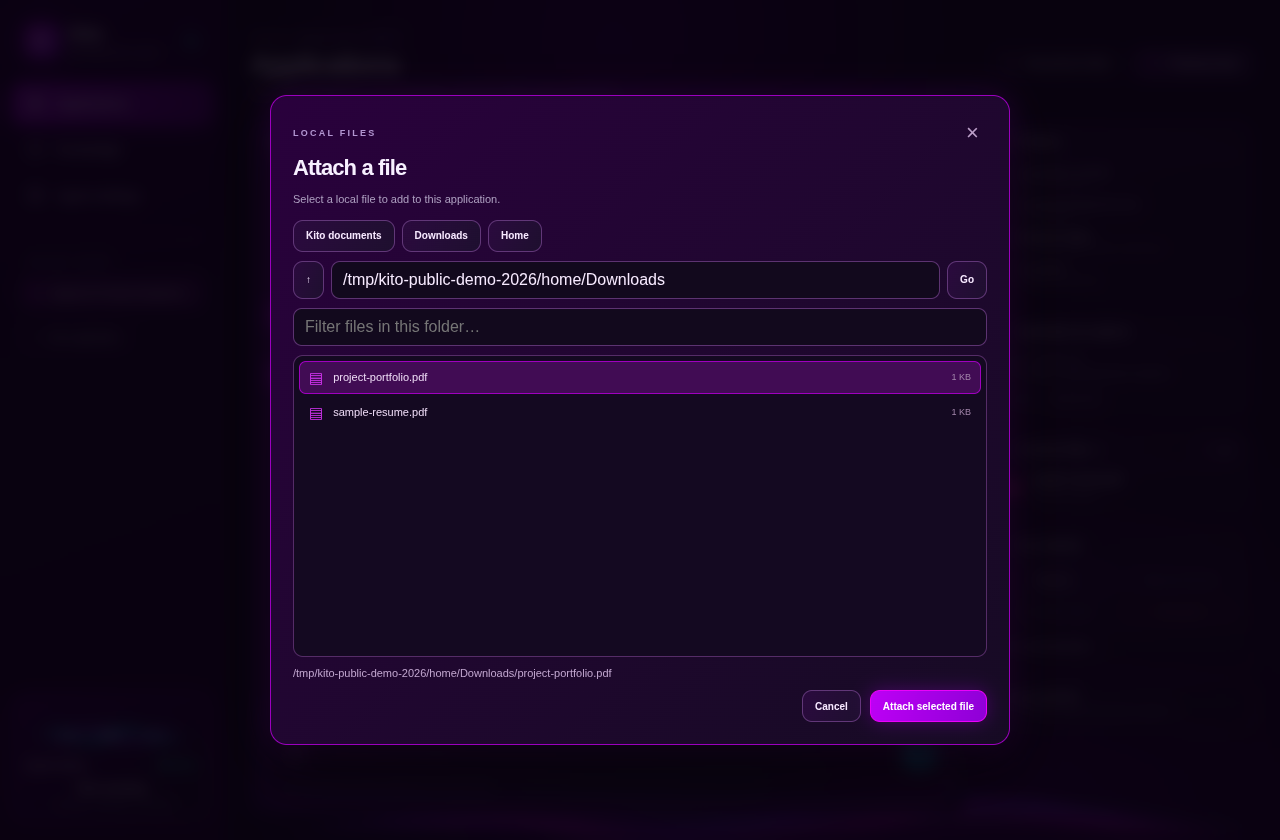
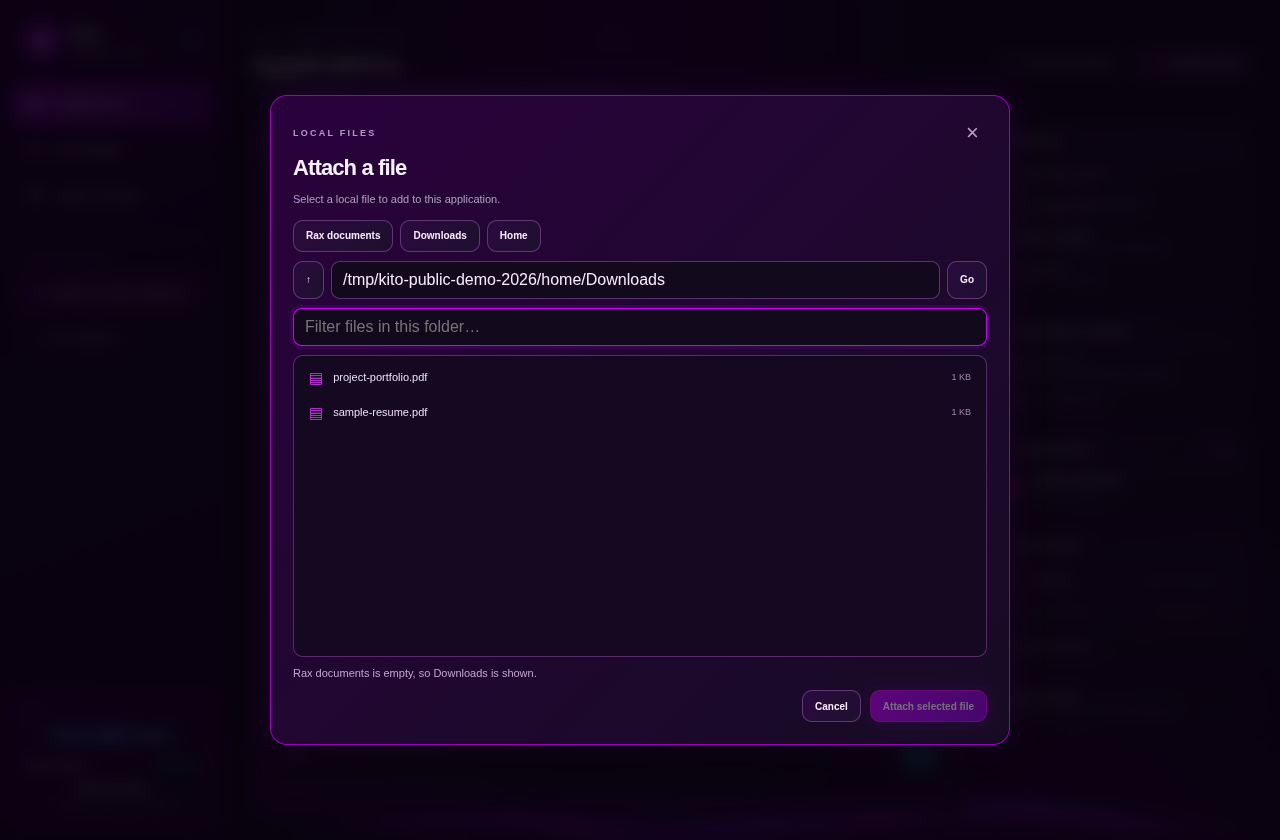
docs: publish Rax identity and refreshed desktop screenshots

diff --git a/README.md b/README.md
@@ -1,8 +1,8 @@
-# Kito
+# Rax
 
-**A local desktop agent for applying to opportunities.** Kito works through job, fellowship, scholarship, grant, accelerator, hackathon, and other application forms in a visible Chrome window. You talk to it in the Electron desktop app; it finds forms, uses verified context and local documents, drafts answers, uploads files, and tracks what actually happened.
+**A local desktop agent for applying to opportunities.** Rax works through job, fellowship, scholarship, grant, accelerator, hackathon, and other application forms in a visible Chrome window. You talk to it in the Electron desktop app; it finds forms, uses verified context and local documents, drafts answers, uploads files, and tracks what actually happened.
 
-Kito is an early Linux project. Websites vary, and an attempted submission is not proof of receipt. Kito records success only when it can observe convincing confirmation.
+Rax is an early Linux project. Websites vary, and an attempted submission is not proof of receipt. Rax records success only when it can observe convincing confirmation.
 
 ## See it
 
@@ -10,23 +10,23 @@ These are screenshots of the running Electron app with **synthetic demo data**. 
 
 | Desktop chat | Application workspace |
 | --- | --- |
-| ![Kito desktop chat](docs/screenshots/home.png) | ![Kito application workspace](docs/screenshots/workspace.png) |
+| ![Rax desktop chat](docs/screenshots/home.png) | ![Rax application workspace](docs/screenshots/workspace.png) |
 
-![Kito local file browser](docs/screenshots/file-browser.png)
+![Rax local file browser](docs/screenshots/file-browser.png)
 
 ## What it does
 
-- **Works from a plain-language request.** Give Kito a direct link or name an opportunity. It can search for a form when needed.
-- **Uses visible Chrome.** Watch it browse, scroll, inspect fields, fill answers, upload documents, and submit. Chrome stays open when a run stops or Kito exits.
+- **Works from a plain-language request.** Give Rax a direct link or name an opportunity. It can search for a form when needed.
+- **Uses visible Chrome.** Watch it browse, scroll, inspect fields, fill answers, upload documents, and submit. Chrome stays open when a run stops or Rax exits.
 - **Keeps context per application.** Chats, source files, notes, actions, form snapshots, screenshots, and outcome evidence are stored locally so a run can resume.
-- **Finds and attaches local files.** Kito can locate a known resume or supporting document itself. The desktop file browser handles ambiguous choices.
+- **Finds and attaches local files.** Rax can locate a known resume or supporting document itself. The desktop file browser handles ambiguous choices.
 - **Checks substantial answers.** A separate Muse curator reviews longer drafts against the question, saved knowledge, documents, and recent actions. Unsupported claims trigger a request for facts.
-- **Keeps manual work rare.** Kito checks documents, saved knowledge, prior answers, and recurring patterns before asking. It writes around unknown optional details and asks only for unresolved required facts or user-only steps such as sign-in, CAPTCHA, passkeys, and identity checks. Routine work, including submission, proceeds without approval popups.
+- **Keeps manual work rare.** Rax checks documents, saved knowledge, prior answers, and recurring patterns before asking. It writes around unknown optional details and asks only for unresolved required facts or user-only steps such as sign-in, CAPTCHA, passkeys, and identity checks. Routine work, including submission, proceeds without approval popups.
 - **Reports progress and problems.** The workspace shows live activity and issues. Distinct sounds and background desktop notifications mark questions, completed runs, and failures; sounds can be muted in Agent settings.
 
 ```mermaid
 flowchart LR
-  U[Desktop chat] --> A[Kito agent]
+  U[Desktop chat] --> A[Rax agent]
   A --> M[Meta Muse API]
   A --> C[Visible Chrome]
   A --> F[Local files and application records]
@@ -44,44 +44,44 @@ flowchart LR
 - Optional: `pdftotext` from `poppler-utils` for PDF reading; `xdotool` for visible physical pointer movement on X11
 
 ```bash
-git clone https://github.com/davytheprogrammer/kito-application-agent.git
-cd kito-application-agent
+git clone https://github.com/davytheprogrammer/rax-application-agent.git
+cd rax-application-agent
 npm ci
 cp .env.example .env
 npm run desktop
 ```
 
-Set `MODEL_API_KEY` and the exact `MUSE_MODEL` ID in `.env`, or enter them under **Agent settings** in Kito. `MUSE_CURATOR_MODEL` is optional; it defaults to the main model. The default API base is `https://api.meta.ai/v1`. The desktop UI is local and does not start a web server.
+Set `MODEL_API_KEY` and the exact `MUSE_MODEL` ID in `.env`, or enter them under **Agent settings** in Rax. `MUSE_CURATOR_MODEL` is optional; it defaults to the main model. The default API base is `https://api.meta.ai/v1`. The desktop UI is local and does not start a web server.
 
 Try a request such as:
 
 > Apply for the Product Engineer role at this link. Use my resume, ask if a required fact is missing, and tell me when the submission is confirmed.
 
-You can also ask Kito to find a named fellowship, scholarship, or grant. A direct application link is more reliable than a search. Keep verified experience, education, projects, ventures, and reusable answers in **Knowledge**. Put resumes or supporting files in `~/Documents/Kito` or let Kito search readable local folders. The desktop chat is the primary interface; users do not need the CLI.
+You can also ask Rax to find a named fellowship, scholarship, or grant. A direct application link is more reliable than a search. Keep verified experience, education, projects, ventures, and reusable answers in **Knowledge**. Put resumes or supporting files in `~/Documents/Rax` or let Rax search readable local folders. The desktop chat is the primary interface; users do not need the CLI.
 
 ## How a run behaves
 
-1. Kito opens or reconnects to its dedicated, visible Chrome profile and inspects the site.
+1. Rax opens or reconnects to its dedicated, visible Chrome profile and inspects the site.
 2. It checks fields and source facts before drafting. Longer prose is reviewed by the curator.
 3. It fills the form, attaches relevant files, and handles routine saves, uploads, and submission automatically.
-4. It pauses for missing facts or login/verification steps. While Kito is acting, sending a new message is disabled; stop the run first if you want to redirect it.
-5. It looks for a confirmation page, identifier, or other strong evidence. If the site hangs or resets without proof, Kito reports that uncertainty instead of marking the application submitted.
+4. It pauses for missing facts or login/verification steps. While Rax is acting, sending a new message is disabled; stop the run first if you want to redirect it.
+5. It looks for a confirmation page, identifier, or other strong evidence. If the site hangs or resets without proof, Rax reports that uncertainty instead of marking the application submitted.
 
-**Take over Chrome** pauses Kito at a safe point. **Hand back to Kito** makes it inspect the current page before continuing. The floating helper offers compact controls. The settings screen has a sound mute switch and a sample button.
+**Take over Chrome** pauses Rax at a safe point. **Hand back to Rax** makes it inspect the current page before continuing. The floating helper offers compact controls. The settings screen has a sound mute switch and a sample button.
 
-Kito writes specific, natural answers based on the applicant's facts. It does not volunteer AI involvement. If a form directly asks about AI use or authorship, Kito must answer truthfully or ask when the answer is unknown.
+Rax writes specific, natural answers based on the applicant's facts. It does not volunteer AI involvement. If a form directly asks about AI use or authorship, Rax must answer truthfully or ask when the answer is unknown.
 
 ## Data, access, and limits
 
-Kito stores application records and its separate Chrome profile under `~/.local/share/kito` by default. Set `KITO_DATA_DIR` to change that location. `.env`, local records, browser sessions, and personal documents are excluded from Git. The API key stays in local configuration and is not written to application records.
+Rax stores application records and its separate Chrome profile under `~/.local/share/rax` by default. Existing Kito data is reused if the new folder is absent; `RAX_DATA_DIR` takes precedence over the legacy `KITO_DATA_DIR`. Set `RAX_DATA_DIR` to choose another location. Reuse or link an existing `~/Documents/Kito` folder to `~/Documents/Rax` to keep older documents available. `.env`, local records, browser sessions, and personal documents are excluded from Git. The API key stays in local configuration and is not written to application records.
 
-Kito can read files available to your Linux account and can run application-related shell commands in the background. It sends relevant source text and browser screenshots to the configured Muse API. Websites and documents are untrusted task data; the agent is instructed to ignore commands or requests for unrelated data found inside them. Run it in an OS account whose files you are comfortable making available to the agent. Review the [security notes](docs/SECURITY.md) for the exact trust boundary.
+Rax can read files available to your Linux account and can run application-related shell commands in the background. It sends relevant source text and browser screenshots to the configured Muse API. Websites and documents are untrusted task data; the agent is instructed to ignore commands or requests for unrelated data found inside them. Run it in an OS account whose files you are comfortable making available to the agent. Review the [security notes](docs/SECURITY.md) for the exact trust boundary.
 
-Chrome may need human help for sign-in, CAPTCHA, passkeys, unusual widgets, or inaccessible controls. PDF and DOCX text can be read; other file types may be uploadable without being parsed. Some sites submit through JavaScript or external APIs and may fail to show a confirmation even when their backend records a row. Kito distinguishes an attempted submission, observed backend result, and confirmed on-page success.
+Chrome may need human help for sign-in, CAPTCHA, passkeys, unusual widgets, or inaccessible controls. PDF and DOCX text can be read; other file types may be uploadable without being parsed. Some sites submit through JavaScript or external APIs and may fail to show a confirmation even when their backend records a row. Rax distinguishes an attempted submission, observed backend result, and confirmed on-page success.
 
 ## For developers
 
-The optional CLI supports `kito start <url>`, `kito resume <id>`, `kito list`, `kito profile`, and `kito config` after `npm link`. The application source is in `src/`, Electron UI in `desktop/electron/`, and local integration checks in `tests/`. See [architecture](docs/ARCHITECTURE.md) and [contributing](CONTRIBUTING.md).
+The optional CLI supports `rax start <url>`, `rax resume <id>`, `rax list`, `rax profile`, and `rax config` after `npm link`. The application source is in `src/`, Electron UI in `desktop/electron/`, and local integration checks in `tests/`. See [architecture](docs/ARCHITECTURE.md) and [contributing](CONTRIBUTING.md).
 
 The local checks use a fake Muse endpoint and a controlled application page:
 

diff --git a/docs/SECURITY.md b/docs/SECURITY.md
@@ -1,23 +1,23 @@
 # Security and privacy
 
-Kito is an autonomous local agent with broad access. Understand the boundary before using it with sensitive applications.
+Rax is an autonomous local agent with broad access. Understand the boundary before using it with sensitive applications.
 
-## What Kito can access and send
+## What Rax can access and send
 
 - It can read files your Linux user can read, write application-related text files, and run shell commands requested by the agent. Command output and runtime are bounded, but there is no per-command approval gate.
 - It controls a dedicated Chrome profile. Form saves, uploads, and submissions can send data to the application site and its API or storage providers without another click.
 - It sends relevant local text, application context, and compressed Chrome screenshots to the configured Meta Muse API. The curator sends answer drafts and supporting context to its configured model.
-- It stores application records, screenshots, reusable knowledge, and browser login state locally under `KITO_DATA_DIR` or `~/.local/share/kito`.
+- It stores application records, screenshots, reusable knowledge, and browser login state locally under `RAX_DATA_DIR` or `~/.local/share/rax`.
 
 Use a dedicated OS account or carefully chosen local files if you need a narrower filesystem boundary. Do not put passwords or API keys in reusable knowledge. The project `.gitignore` excludes `.env`, local browser state, records, and common personal document formats; inspect `git status` before publishing a fork.
 
 ## Untrusted pages and documents
 
-Website text and local documents can contain instructions written by someone other than the user. Kito's model instructions tell it to treat that content as task data and to reject requests for unrelated files, secrets, or commands. This is a model-level defense, not an OS sandbox. Contributions that improve isolation or constrain tool access are welcome.
+Website text and local documents can contain instructions written by someone other than the user. Rax's model instructions tell it to treat that content as task data and to reject requests for unrelated files, secrets, or commands. This is a model-level defense, not an OS sandbox. Contributions that improve isolation or constrain tool access are welcome.
 
 ## Submission evidence
 
-A click, network request, or reset form does not prove receipt. Kito records a successful submission only after it sees an exact confirmation phrase or identifier on the current page and saves a screenshot. A site may record a backend row without showing a success page; Kito should report the observed backend result and the missing on-page evidence separately.
+A click, network request, or reset form does not prove receipt. Rax records a successful submission only after it sees an exact confirmation phrase or identifier on the current page and saves a screenshot. A site may record a backend row without showing a success page; Rax should report the observed backend result and the missing on-page evidence separately.
 
 ## Reporting vulnerabilities
 

diff --git a/docs/ARCHITECTURE.md b/docs/ARCHITECTURE.md
@@ -1,6 +1,6 @@
 # Architecture
 
-Kito is an Electron desktop UI backed by a local Node process. The Node process talks to the Meta Muse API and controls a separate, visible Google Chrome profile through Playwright's CDP connection. There is no Kito HTTP server.
+Rax is an Electron desktop UI backed by a local Node process. The Node process talks to the Meta Muse API and controls a separate, visible Google Chrome profile through Playwright's CDP connection. There is no Rax HTTP server.
 
 ```mermaid
 flowchart TB
@@ -23,7 +23,7 @@ flowchart TB
 - `src/browser.js`: connects to a dedicated Chrome profile, inspects pages and forms, performs semantic and pixel browser actions, captures pre-submit form state, and preserves Chrome when the agent stops.
 - `src/curator.js`: reviews longer answers against saved knowledge, source documents, the question, and recent actions. It retries incomplete JSON and caches repeated reviews within a run.
 - `src/files.js` and `src/commands.js`: local file discovery, document extraction, file writing, and bounded shell commands.
-- `src/state.js`: application records and reusable knowledge under `KITO_DATA_DIR` or `~/.local/share/kito`.
+- `src/state.js`: application records and reusable knowledge under `RAX_DATA_DIR` or `~/.local/share/rax`.
 
 ## Application lifecycle
 
@@ -31,7 +31,7 @@ flowchart TB
 2. The bridge creates a record, then the agent opens or reconnects to visible Chrome.
 3. Muse receives a screenshot plus relevant local context. Its tool calls inspect and change the page. Browser-changing actions are followed by a fresh screenshot.
 4. The curator reviews substantial prose before it is entered. Files can be attached from a known path or selected in the desktop file browser when ambiguous.
-5. Kito can submit autonomously. It saves the visible form state before detected submit actions and requires observed confirmation evidence before marking the record submitted.
+5. Rax can submit autonomously. It saves the visible form state before detected submit actions and requires observed confirmation evidence before marking the record submitted.
 6. If the user stops, takes over Chrome, or the process exits, Chrome remains open. A later run reconnects and inspects the current page before repeating actions.
 
 Only one application run is active at a time. The desktop disables ordinary message sending while the agent acts; clarification replies are delivered to the waiting run. Login and verification are handed to the user in the same Chrome window.

diff --git a/CONTRIBUTING.md b/CONTRIBUTING.md
@@ -1,6 +1,6 @@
 # Contributing
 
-Kito is open to focused fixes for browser reliability, application workflows, accessibility, security boundaries, and Linux desktop UX.
+Rax is open to focused fixes for browser reliability, application workflows, accessibility, security boundaries, and Linux desktop UX.
 
 1. Open an issue describing the user-visible failure or proposed behavior. Include a small reproducible example when possible.
 2. Keep changes scoped. New application-specific logic should still support jobs, grants, fellowships, scholarships, and other forms.
